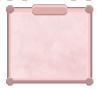
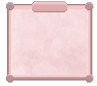
Import datetime for task management

diff --git a/src/chatbox.py b/src/chatbox.py
@@ -1,40 +1,86 @@
 import tkinter as tk
 from tkinter import *
 from PIL import Image, ImageTk
+from datetime import datetime
 from scheduleManager import ScheduleManager
+
 
 class ChatBox:
     def __init__(self, window, chatbox_path):
         BG = '#F4D8DA'
         self.window = window
+        # self.frame = Frame(window)
+        # self.label = Label(self.frame, text="")
+        # self.label.pack()
         self.schedule_manager = ScheduleManager(self.window)
-        image = Image.open(chatbox_path)
-        self.chatbox_image = ImageTk.PhotoImage(image)
+        original_image = Image.open(chatbox_path)
+        resized_image = original_image.resize((200, 100), Image.Resampling.LANCZOS)
+        self.chatbox_image = ImageTk.PhotoImage(resized_image)
         self.chatbox = tk.Label(self.window, image=self.chatbox_image, bg="magenta", borderwidth=0)
+        # self.chatbox_frame = Frame(window)
         self.text_label = tk.Label(self.window, text='', bg=BG, font=('Arial', 9), wraplength=75, justify='center')
         self.button = Button(window, text="✓", width=5, command=self.task_completed, pady=0)
+        self.chatbox_x = 8
+        self.chatbox_y = 1
+        self.text_x = 40
+        self.text_y = 15
+        self.button_x = 120
+        self.button_y = 45
 
     def show(self, message):
         self.text_label.configure(text=message)
-        self.chatbox.place(x=49, y=10)
-        self.text_label.place(x=80, y=25)
-        self.button.place(x=80, y=65)
+        self.chatbox.place(x=self.chatbox_x, y=self.chatbox_y)
+        self.text_label.place(x=self.text_x, y=self.text_y)
+        self.button.place(x=self.button_x, y=self.button_y)
         # hide after 2 seconds
-        self.window.after(2000000000, self.hide)
+        #self.window.after(2000000000, self.hide)
 
-    def display_task(self):
+    def display_task(self, event=None):
         next_task = self.schedule_manager.get_next_task()
-        if next_task:
-            self.text_label.config(text=f'{next_task['time']}\n{next_task['task']}')
+        if next_task is None:
+            message = self.text_label.config(text="No incomplete tasks! ✓")
+        elif self.schedule_manager.is_task_late(next_task):
+            message = self.text_label.config(text=f'Late:\n{next_task['time']}\n{next_task['task']}')
+        else:
+            message = self.text_label.config(text=f'{next_task['time']}\n{next_task['task']}')
+        self.show(message)
 
     def task_completed(self):
         completed_task = self.schedule_manager.complete_next_task()
-        self.display_task()
-        # if completed_task:
-        #     self.display_task()
+        if completed_task:
+            self.display_task()
+        self.hide()
 
     def hide(self):
         self.chatbox.place_forget()
+        #self.chatbox_frame.place_forget()
         self.text_label.place_forget()
         self.button.place_forget()
+
+    # def get_upcoming_task(self):
+    #     schedule_list = self.schedule_manager.load_schedule()
+    #     schedule = schedule_list['schedule']
+    #     now = datetime.now()
+    #
+    #     for task in schedule:
+    #         if not task['completed']:
+    #             task_time = datetime.strptime(task['time'], '%H:%M')
+    #
+    #         task_datetime = now.replace(hour=task_time.hour, minute=task_time.minute, second=0, microsecond=0)
+    #
+    # def check_upcoming_task(self):
+    #     next_task = self.schedule_manager.get_next_task()
+    #     if next_task is not None:
+    #         now = datetime.now()
+    #         task_time = datetime.strptime(next_task['time'], "%H:%M")
+    #
+    #         task_datetime = now.replace(hour=task_time.hour, minute=task_time.minute, second=0, microsecond=0)
+    #         minutes_until_task = (task_datetime - now).total_seconds() / 60
+    #
+    #         if 0 <= minutes_until_task <= 1:
+    #             self.display_task(next_task)
+    #
+    #     self.window.after(60_000, self.check_upcoming_task)
+
+
 

diff --git a/src/kitty.py b/src/kitty.py
@@ -1,4 +1,5 @@
 import tkinter as tk
+from tkinter import *
 from PIL import Image, ImageTk
 import time
 from scheduleManager import ScheduleManager
@@ -167,11 +168,12 @@ class Kitty:
             self.change_animation(self.state)
 
     # debbuging
-    def talk(self, _):
-        message = self.chatbox.display_task()
-        self.chatbox.show(message)
-        self.last_interaction = time.time()
-        
+    # def talk(self, _):
+    #     self.chatbox.frame.place(x=self.chatbox.chatbox_x, y=self.chatbox.chatbox_y)
+    #     message = self.chatbox.display_task()
+    #     self.chatbox.show(message)
+    #     self.last_interaction = time.time()
+
 
     # def set_target(self, event):
     #     # horizontal center of the cat on the screen.

diff --git a/src/main.py b/src/main.py
@@ -42,12 +42,12 @@ pet.label.bind("<Button-2>", pet.start_cuddles)
 pet.label.bind("<Button-3>", pet.set_target_right)
 pet.label.bind("<Enter>", pet.wake_up)
 pet.label.bind("<Double-Button-2>", schedule_manager.open_schedule_editor)
-# debugging
-pet.label.bind("<Double-Button-1>", pet.talk)
+pet.label.focus_set()
+pet.label.bind("<space>", chatbox.display_task)
 pet.animate()
 pet.move()
 pet.check_idle()
-chatbox.display_task()
+# chatbox.display_task()
 # next_task = schedule_manager.get_next_task()
 # if next_task:
 #     print(next_task['time'])

diff --git a/src/scheduleManager.py b/src/scheduleManager.py
@@ -82,7 +82,11 @@ class ScheduleManager:
                 return task
         return None
 
+    def is_task_late(self, task):
+        current_time = datetime.now().time()
+        task_time = datetime.strptime(task['time'], '%H:%M').time()
 
+        return current_time > task_time and not task['completed']
 
 
 